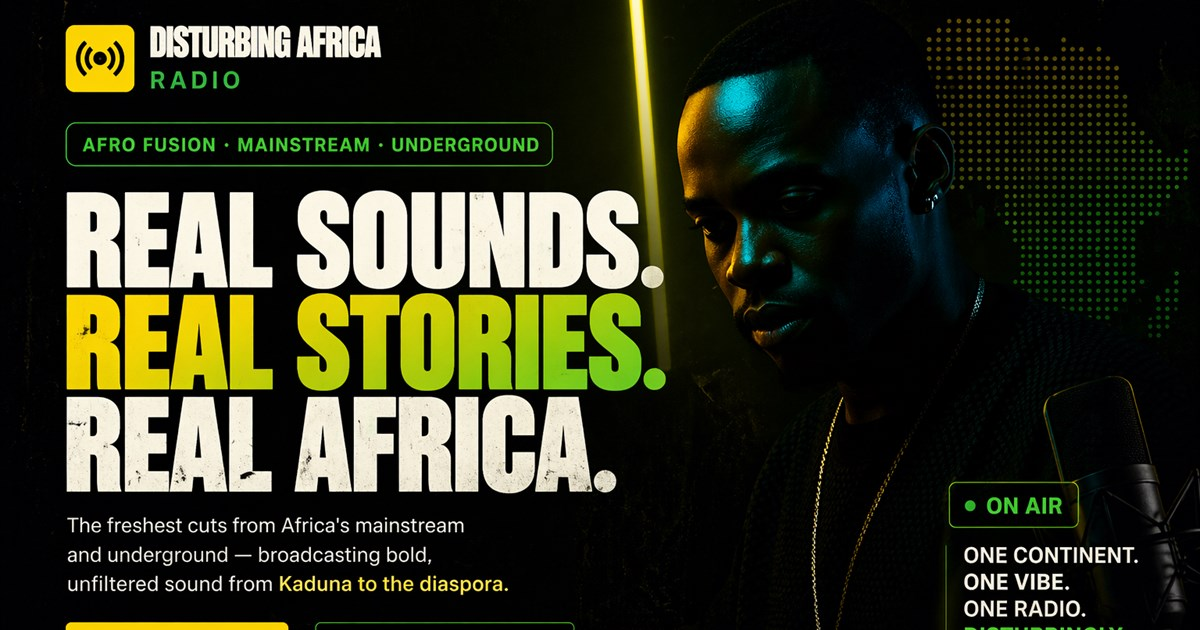
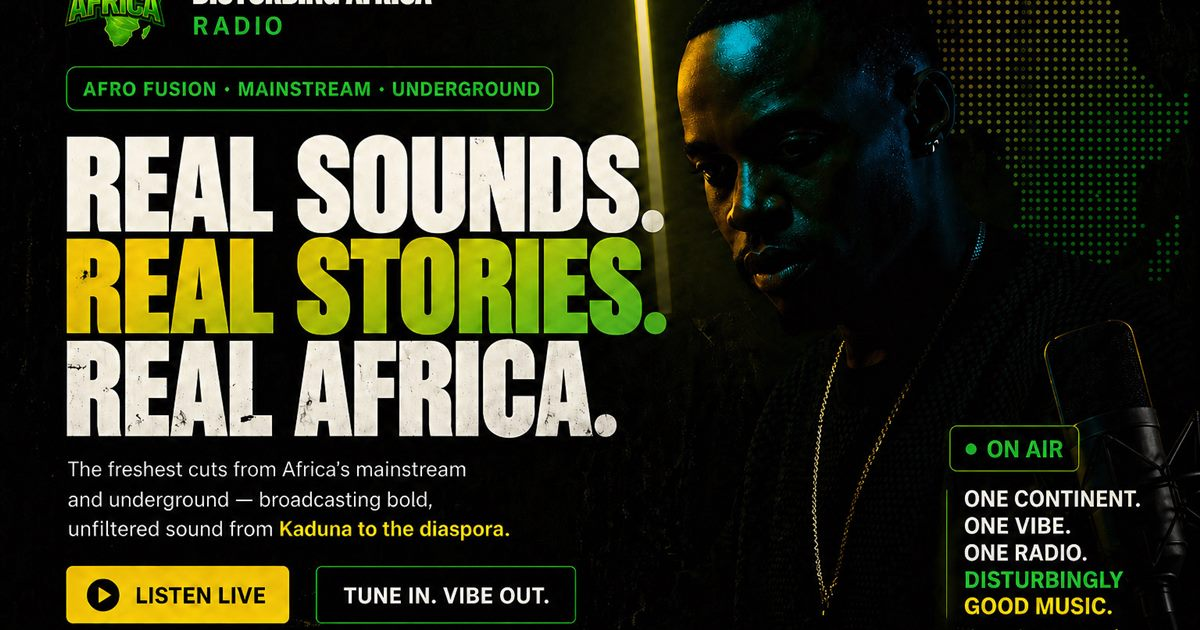
made the social preview image visible whe i share the link on whatsapp

diff --git a/src/lib/site-meta.ts b/src/lib/site-meta.ts
@@ -1,11 +1,27 @@
-const DEFAULT_SITE_URL = "https://disturbing-africa-radio.lovable.app";
+const DEFAULT_SITE_URL = "https://disturbing-africa-radio.vercel.app";
+
+function normalizeSiteUrl(url?: string) {
+  if (!url) {
+    return undefined;
+  }
+
+  const withProtocol = /^https?:\/\//.test(url) ? url : `https://${url}`;
+  return withProtocol.replace(/\/+$/, "");
+}
+
+const vercelSiteUrl =
+  typeof process !== "undefined"
+    ? process.env.VERCEL_PROJECT_PRODUCTION_URL || process.env.VERCEL_URL
+    : undefined;
 
 export const SITE_URL =
-  import.meta.env.VITE_SITE_URL?.replace(/\/+$/, "") || DEFAULT_SITE_URL;
+  normalizeSiteUrl(import.meta.env.VITE_SITE_URL) ||
+  normalizeSiteUrl(vercelSiteUrl) ||
+  DEFAULT_SITE_URL;
 
-export const SOCIAL_IMAGE_URL = `${SITE_URL}/social-preview.png`;
+export const SOCIAL_IMAGE_URL = `${SITE_URL}/social-preview.jpg`;
 export const SOCIAL_IMAGE_ALT =
   "Disturbing Africa Radio artwork with the headline Real Sounds. Real Stories. Real Africa.";
-export const SOCIAL_IMAGE_TYPE = "image/png";
-export const SOCIAL_IMAGE_WIDTH = "1536";
-export const SOCIAL_IMAGE_HEIGHT = "1024";
+export const SOCIAL_IMAGE_TYPE = "image/jpeg";
+export const SOCIAL_IMAGE_WIDTH = "1200";
+export const SOCIAL_IMAGE_HEIGHT = "630";
